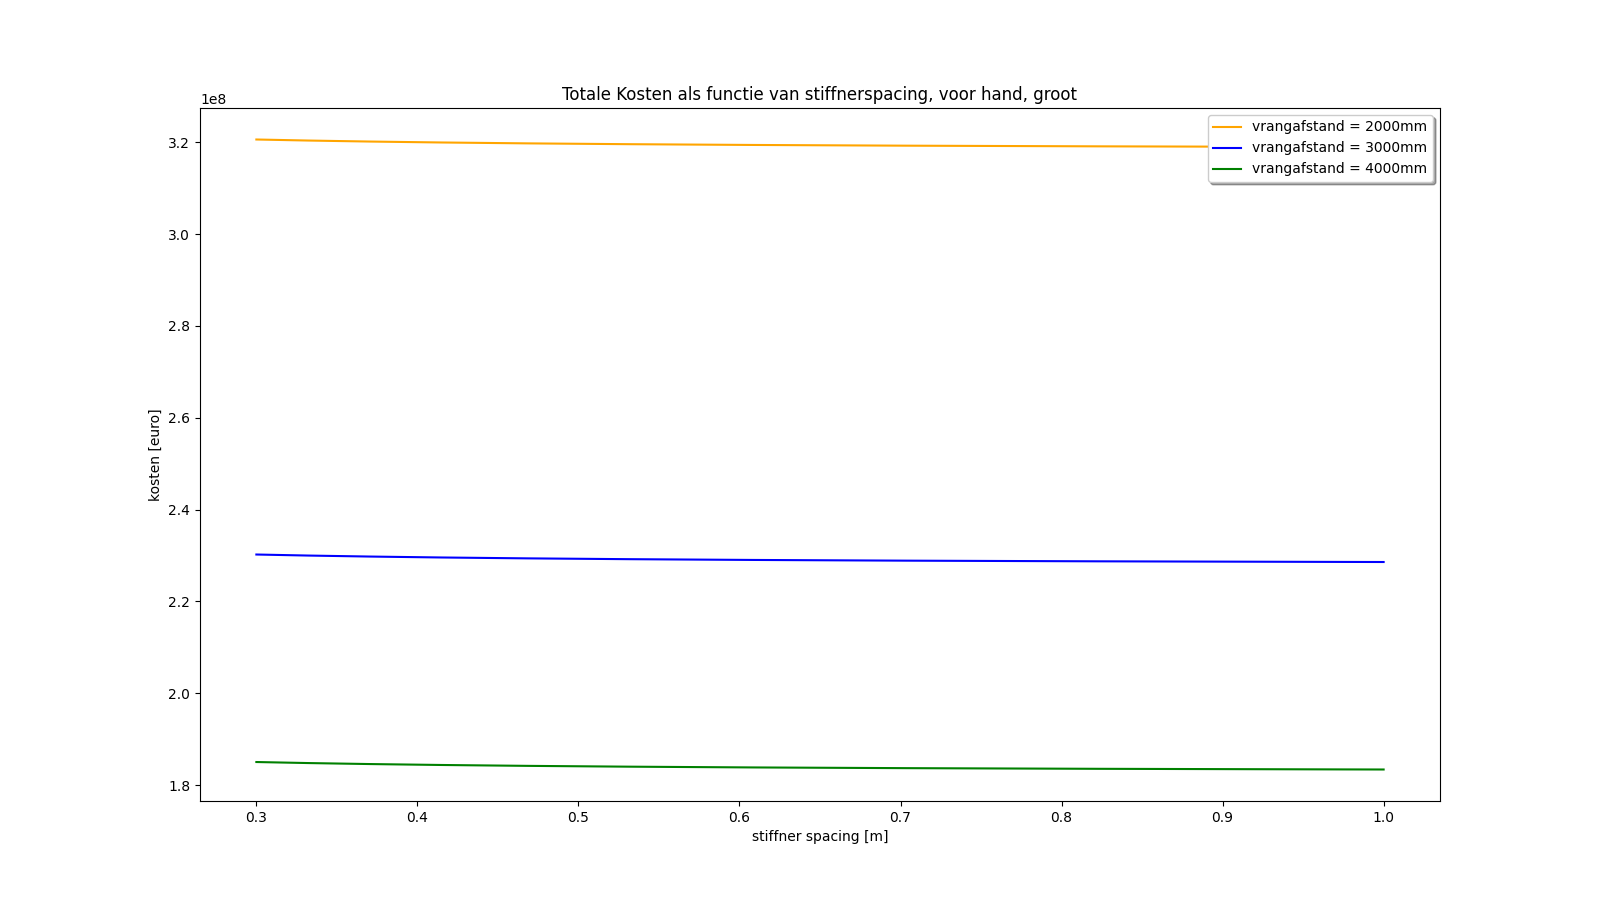
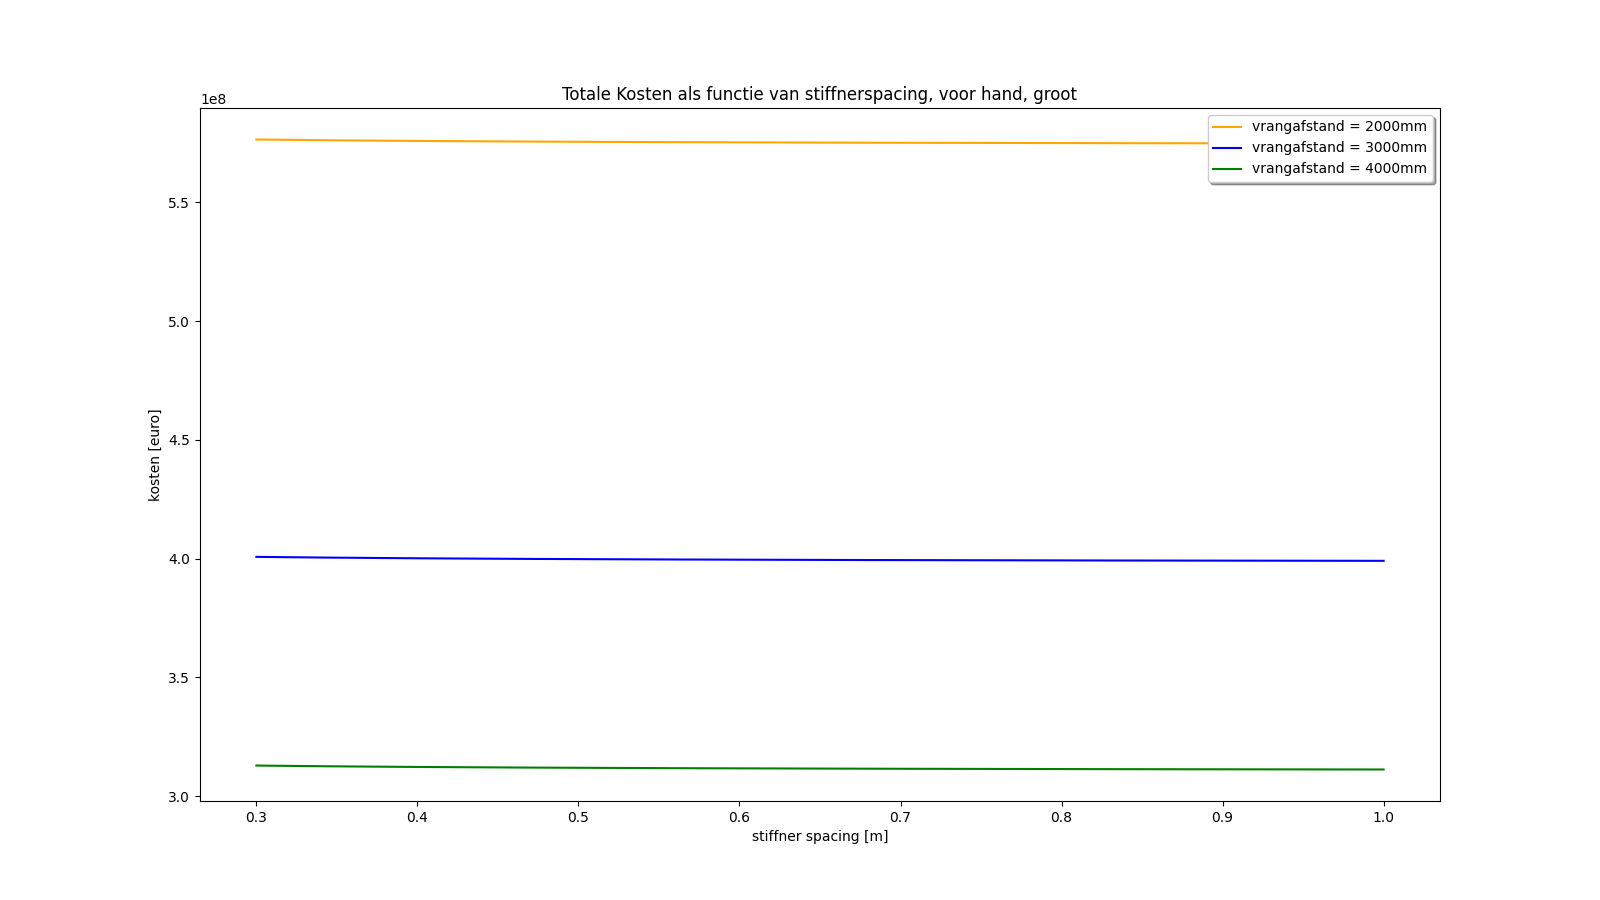
goeie plotjes

diff --git a/plaatproductie/plaatproductie nieuw.py b/plaatproductie/plaatproductie nieuw.py
@@ -47,16 +47,16 @@ class totaal():
         nplaat = Bp/bp
         nlas = nplaat -1
         nspant = Bp/ss-nzaathout -1  
-        nvrang = Lp/sg
+        nvrang = 2*Lp/sg
         nkruising = nvrang*(nspant+nzaathout) 
-        Llas_plaat = nlas*Lp 
-        Llas_spant = nspant*Lp*2  
+        Llas_plaat = nlas*2*Lp 
+        Llas_spant = nspant*2*Lp*2  
         Llas_vrang_hori = nvrang*Bp*2  
-        Llas_zaathout = nzaathout*Lp*2   
+        Llas_zaathout = nzaathout*2*Lp*2   
         Llas_vrang_verti = hvrang*nkruising*4 +nspant*hspant*2
         Llas = Llas_plaat + Llas_spant + Llas_vrang_hori + Llas_zaathout + Llas_vrang_verti
 
-        materiaal = 35521200+tp + 3415500/sg + 3552120*A/sg - 7488000*A_bulb + 1138500+3900*tp*Llas
+        materiaal = 35521200+tp + 3415500/sg + 3552120*2*A/sg - 7488000*A_bulb + 1138500+3900*tp*Llas
 
         personeel = capaciteit*(150+15/ss+600/sg)
 
@@ -91,16 +91,16 @@ class totaal():
         nplaat = Bp/bp
         nlas = nplaat -1
         nspant = Bp/ss-nzaathout -1  
-        nvrang = Lp/sg
-        nkruising = nvrang*(nspant+nzaathout)
-        Llas_plaat = nlas*Lp  
-        Llas_spant = nspant*Lp*2  
+        nvrang = 2*Lp/sg
+        nkruising = nvrang*(nspant+nzaathout) 
+        Llas_plaat = nlas*2*Lp 
+        Llas_spant = nspant*2*Lp*2  
         Llas_vrang_hori = nvrang*Bp*2  
-        Llas_zaathout = nzaathout*Lp*2   
+        Llas_zaathout = nzaathout*2*Lp*2   
         Llas_vrang_verti = hvrang*nkruising*4 +nspant*hspant*2
         Llas = Llas_plaat + Llas_spant + Llas_vrang_hori + Llas_zaathout + Llas_vrang_verti
 
-        materiaal = 35521200+tp + 3415500/sg + 3552120*A/sg - 7488000*A_bulb + 1138500+3900*tp*Llas
+        materiaal = 35521200+tp + 3415500/sg + 3552120*2*A/sg - 7488000*A_bulb + 1138500+3900*tp*Llas
 
         personeel = capaciteit*(45+81/ss+4320/sg)
 
@@ -135,16 +135,16 @@ class totaal():
         nplaat = Bp/bp
         nlas = nplaat -1
         nspant = Bp/ss-nzaathout -1  
-        nvrang = Lp/sg
-        nkruising = nvrang*(nspant+nzaathout)
-        Llas_plaat = nlas*Lp  
-        Llas_spant = nspant*Lp*2  
+        nvrang = 2*Lp/sg
+        nkruising = nvrang*(nspant+nzaathout) 
+        Llas_plaat = nlas*2*Lp 
+        Llas_spant = nspant*2*Lp*2  
         Llas_vrang_hori = nvrang*Bp*2  
-        Llas_zaathout = nzaathout*Lp*2   
+        Llas_zaathout = nzaathout*2*Lp*2   
         Llas_vrang_verti = hvrang*nkruising*4 +nspant*hspant*2
         Llas = Llas_plaat + Llas_spant + Llas_vrang_hori + Llas_zaathout + Llas_vrang_verti
 
-        materiaal = 35521200+tp + 3415500/sg + 3552120*A/sg - 7488000*A_bulb + 1138500+3900*tp*Llas
+        materiaal = 35521200+tp + 3415500/sg + 3552120*2*A/sg - 7488000*A_bulb + 1138500+3900*tp*Llas
 
         personeel = capaciteit*(45+81/ss+4320/sg)
 
@@ -167,7 +167,7 @@ def plot(self,titel):
     figure.savefig("./plaatproductie/"+titel+".png")
     #figure.colorbar(surf,shrink=0.5,aspect=5)
     #ax.legend(loc = "lower right", shadow = True, fontsize="large")
-
+    
 plot(totaal.groot_robot_5,"robot, groot, 5 stations")
 plot(totaal.groot_robot_4,"robot, groot, 4 stations")
 plot(totaal.klein_robot_5,"robot, klein, 5 stations")
